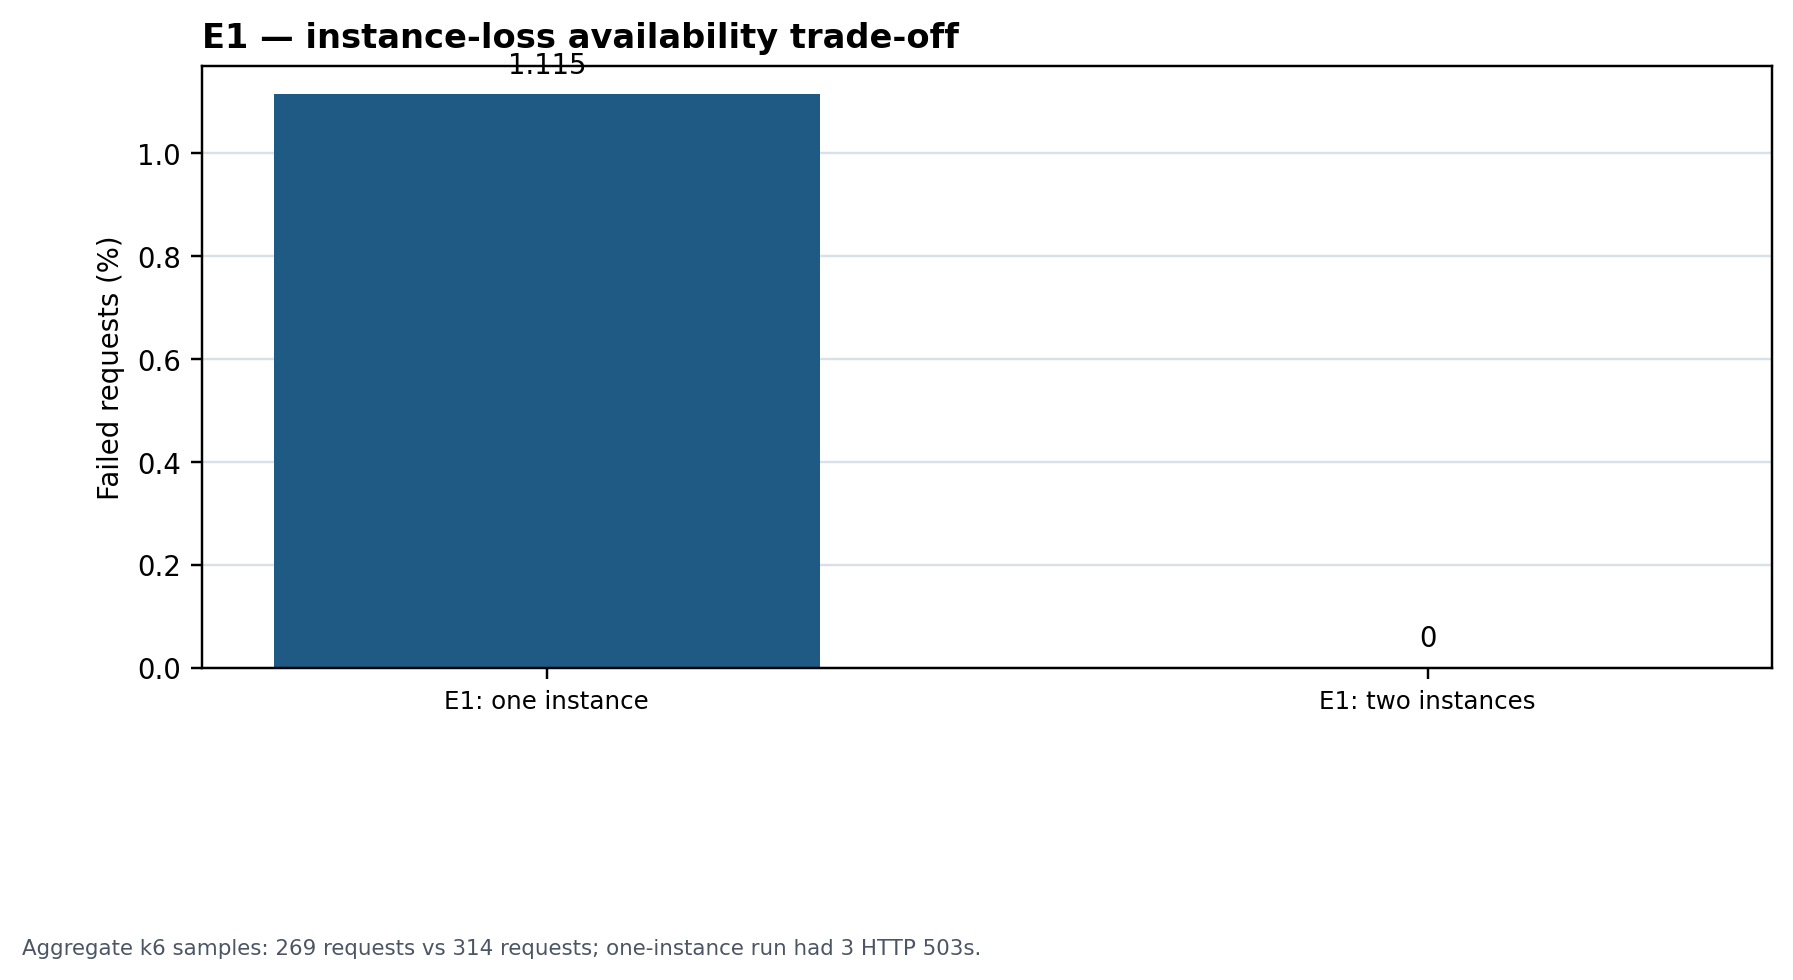
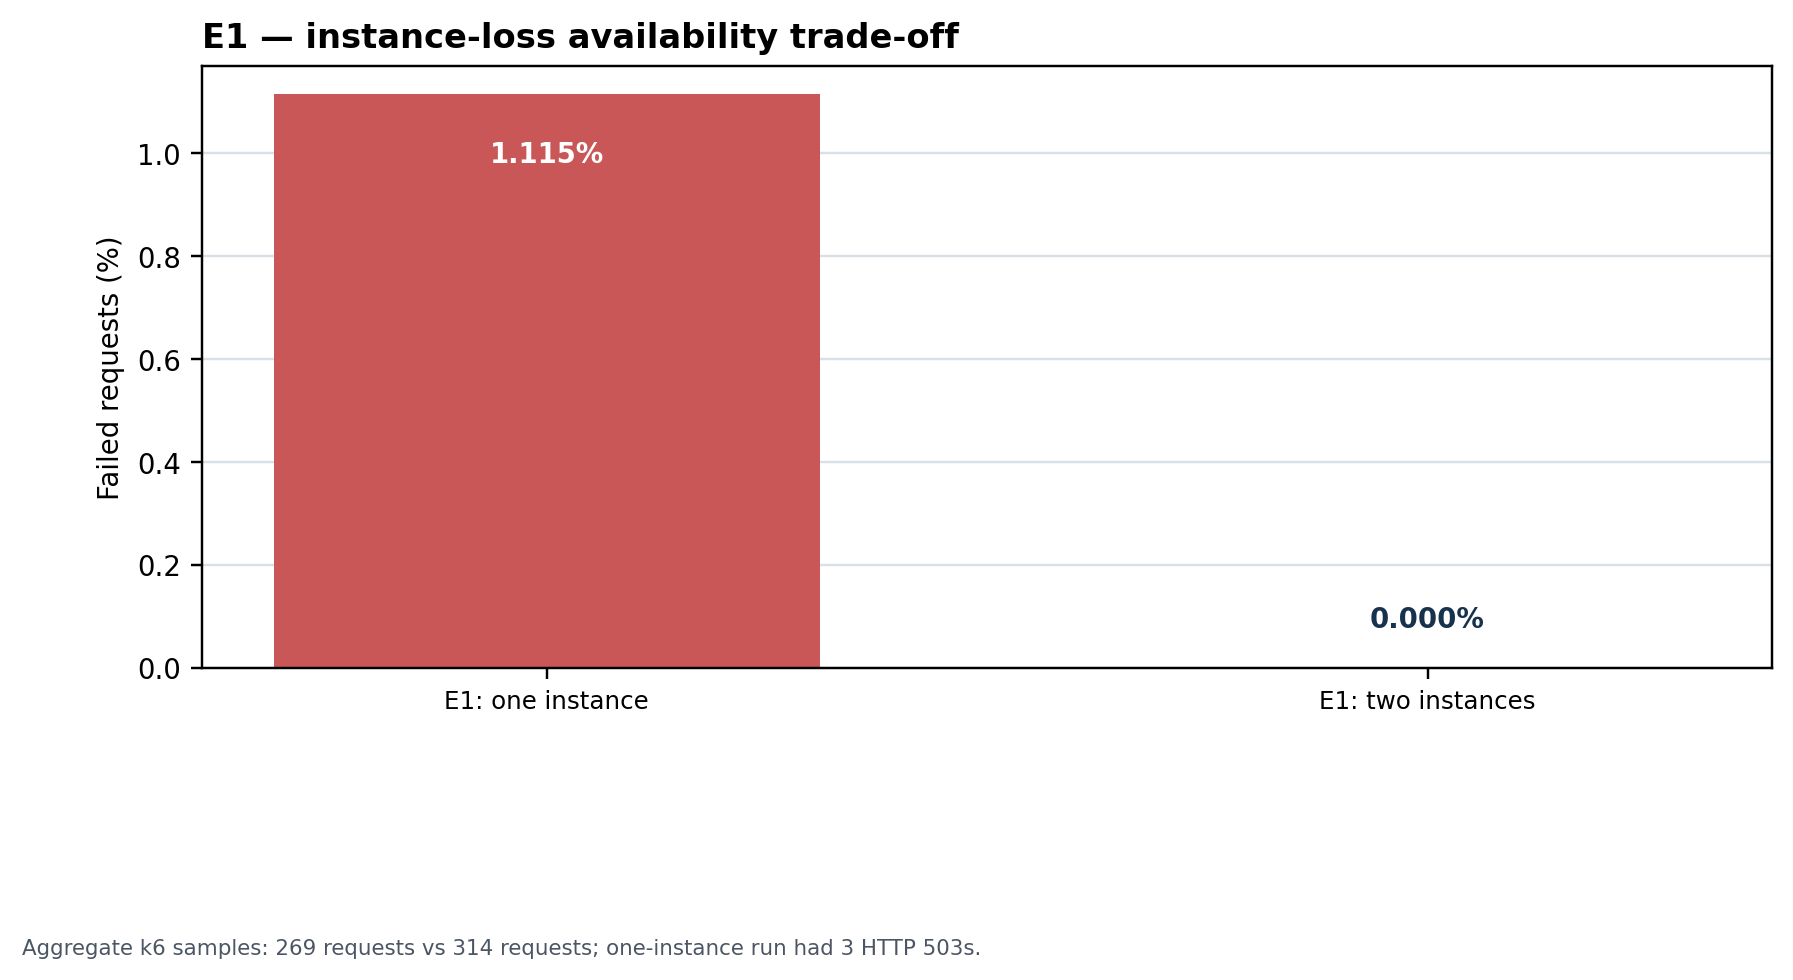
docs(m14): refine evidence graph presentation

Changed region(s): [[0.1249, 0.0612, 0.4685, 0.7041], [0.7496, 0.6122, 0.8433, 0.6429]]

diff --git a/docs/screenshots/README.md b/docs/screenshots/README.md
@@ -30,8 +30,6 @@ The first generated summary set is:
 - [`e2-e4-latency-summary.png`](14-portfolio/e2-e4-latency-summary.png)
 - [`e5-e6-recovery-timings.png`](14-portfolio/e5-e6-recovery-timings.png)
 
-Regenerate them with `python scripts/generate-evidence-graphs.py` after changing the measured
-inputs in that script.
 
 The project does not require a demo recording. For presentation, assemble a small visual pack from
 the existing evidence: the canonical architecture diagram, one CloudWatch graph or generated
